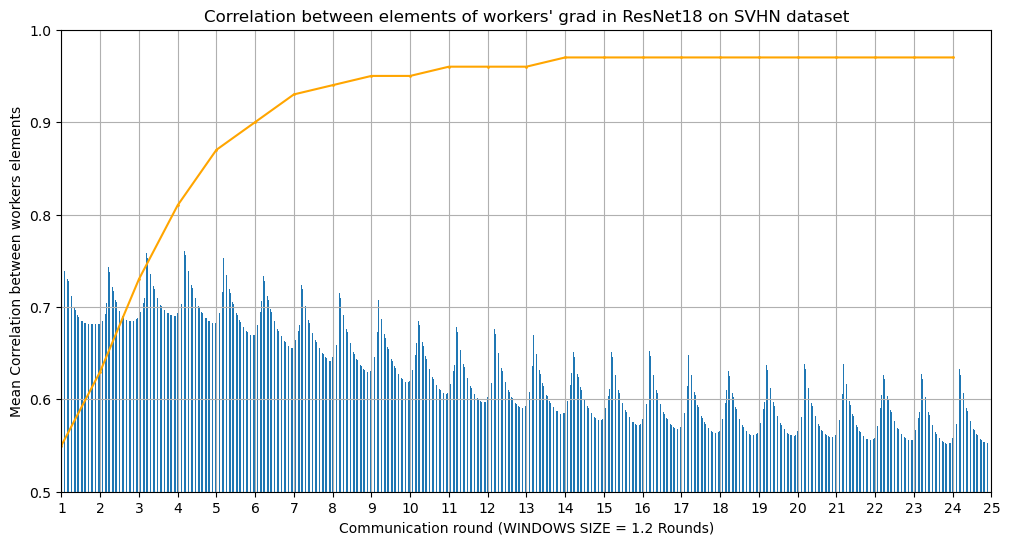
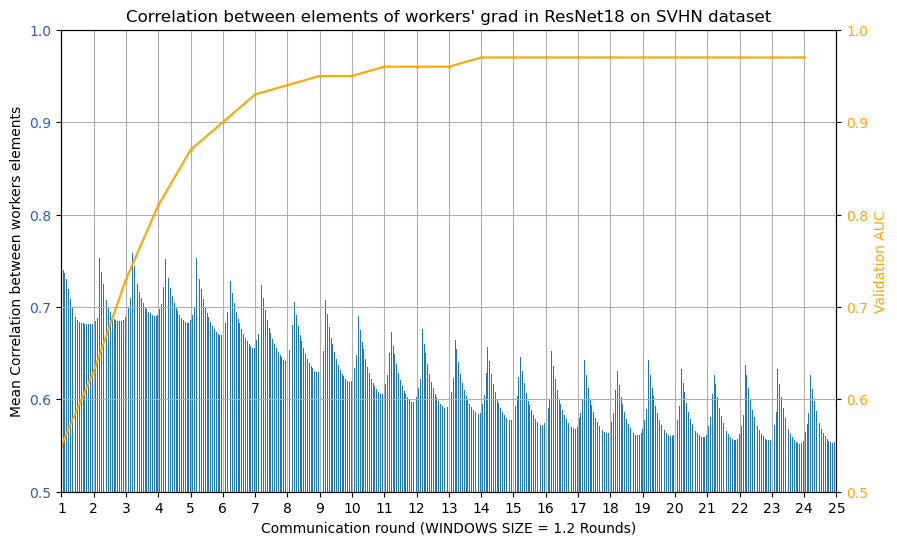
fixed issues with the thesis text

Changed region(s): [[0.0, 0.0, 0.9989, 0.9982], [0.4994, 0.0936, 0.5619, 0.1248]]

diff --git a/Thesis_doc/Chapters/chapter_4_results_discussion/4-1_gains_over_baselines.tex b/Thesis_doc/Chapters/chapter_4_results_discussion/4-1_gains_over_baselines.tex
@@ -1,11 +1,11 @@
 \section{Gains over Baselines}
-The table below shows information about the different protocols used in our experiments, including the bit rate, accuracy, convergence speed, and reconstruction error. The hybrid and worker-side protocols achieve the best compression rates while maintaining high accuracy and convergence speed. The all-out protocol achieves a respectable rate distortion, but its not the best. the \ref{tab:protocol_comparison} summarizes the performance of various protocols used in our experiments.
+The table below shows information about the different protocols used in our experiments, including the bit rate, accuracy, convergence speed, and reconstruction error. The hybrid and worker-side protocols achieve the best compression rates while maintaining high accuracy and convergence speed. The all-out protocol achieves a respectable rate distortion, but its not the best. the \ref{tab:protocol_comparison} summarizes the performance of various protocols used in our experiments. Hybrid 1bit is a variant of the Hybrid protocol that uses 1-stage 1-bit quantizer.
 
 \begin{table}[H]
     \centering
-    \begin{tabular}{|c|c|c|c|}
+    \begin{tabular}{|c|c|c|c|c|c|}
         \hline
-        Protocol & Bit Rate (BPP) & AUC (\%) at Round 20 & AUC (\%) at Round 40 & Reconstruction MAPE (\%) \\
+        Protocol & Bit Rate (BPP) & AUC (\%) at R. 20 & AUC (\%) at R. 40 & avg MAPE (\%) \\
         \hline
         Basic Entropy & 6.1 & 91.5 & 96 & 0 \\
         \hline
@@ -13,13 +13,15 @@ The table below shows information about the different protocols used in our expe
         \hline
         All-Out & 1.6 & 89.5 & 95 & 33 \\
         \hline
-        All-Out without pre/post-proc. & N/A & 88 & 94 & N/A \\
+        All-Out wo pre-proc. & N/A & 88 & 94 & N/A \\
         \hline
         All-Out + global model & 2.1 (model BPP) & 86.5 & 92 & N/A \\
         \hline
         Worker-Side & 0.9 & 91 & 96 & 22.5 \\
         \hline
-        Hybrid & 0.9 & 88 & N/A & 25 \\
+        Hybrid & 0.9 & 88 & 96 & 25 \\
+        \hline
+        Hybrid 1bit & 0.67 & 88 & 96 & 40 \\
         \hline
     \end{tabular}
     \caption{Comparison of different protocols on ResNet-18 trained on the SVHN dataset. The bit rate is calculated as the total number of bits sent divided by the total number of parameters sent. The accuracy is the final accuracy achieved after training for a fixed number of rounds. MAPE represents the Mean Absolute Percentage Error of gradient reconstruction.}

diff --git a/Thesis_doc/Chapters/chapter_3_materials_methods/3-7_Protocols.tex b/Thesis_doc/Chapters/chapter_3_materials_methods/3-7_Protocols.tex
@@ -5,6 +5,7 @@ Before discussing the protocols, we offer a diagram of the overall encoding and 
 
 \begin{figure}[htbp]
     \centering
+    \includegraphics[width=1\textwidth]{Chapters/chapter_3_materials_methods/figures/encoding process}
     \includegraphics[width=1\textwidth]{Chapters/chapter_3_materials_methods/figures/decoding process}
     \caption{The encoding and decoding process for the proposed protocols. G and G' are the original and reconstructed gradients, respectively.}
     \label{fig:wz-pipeline}